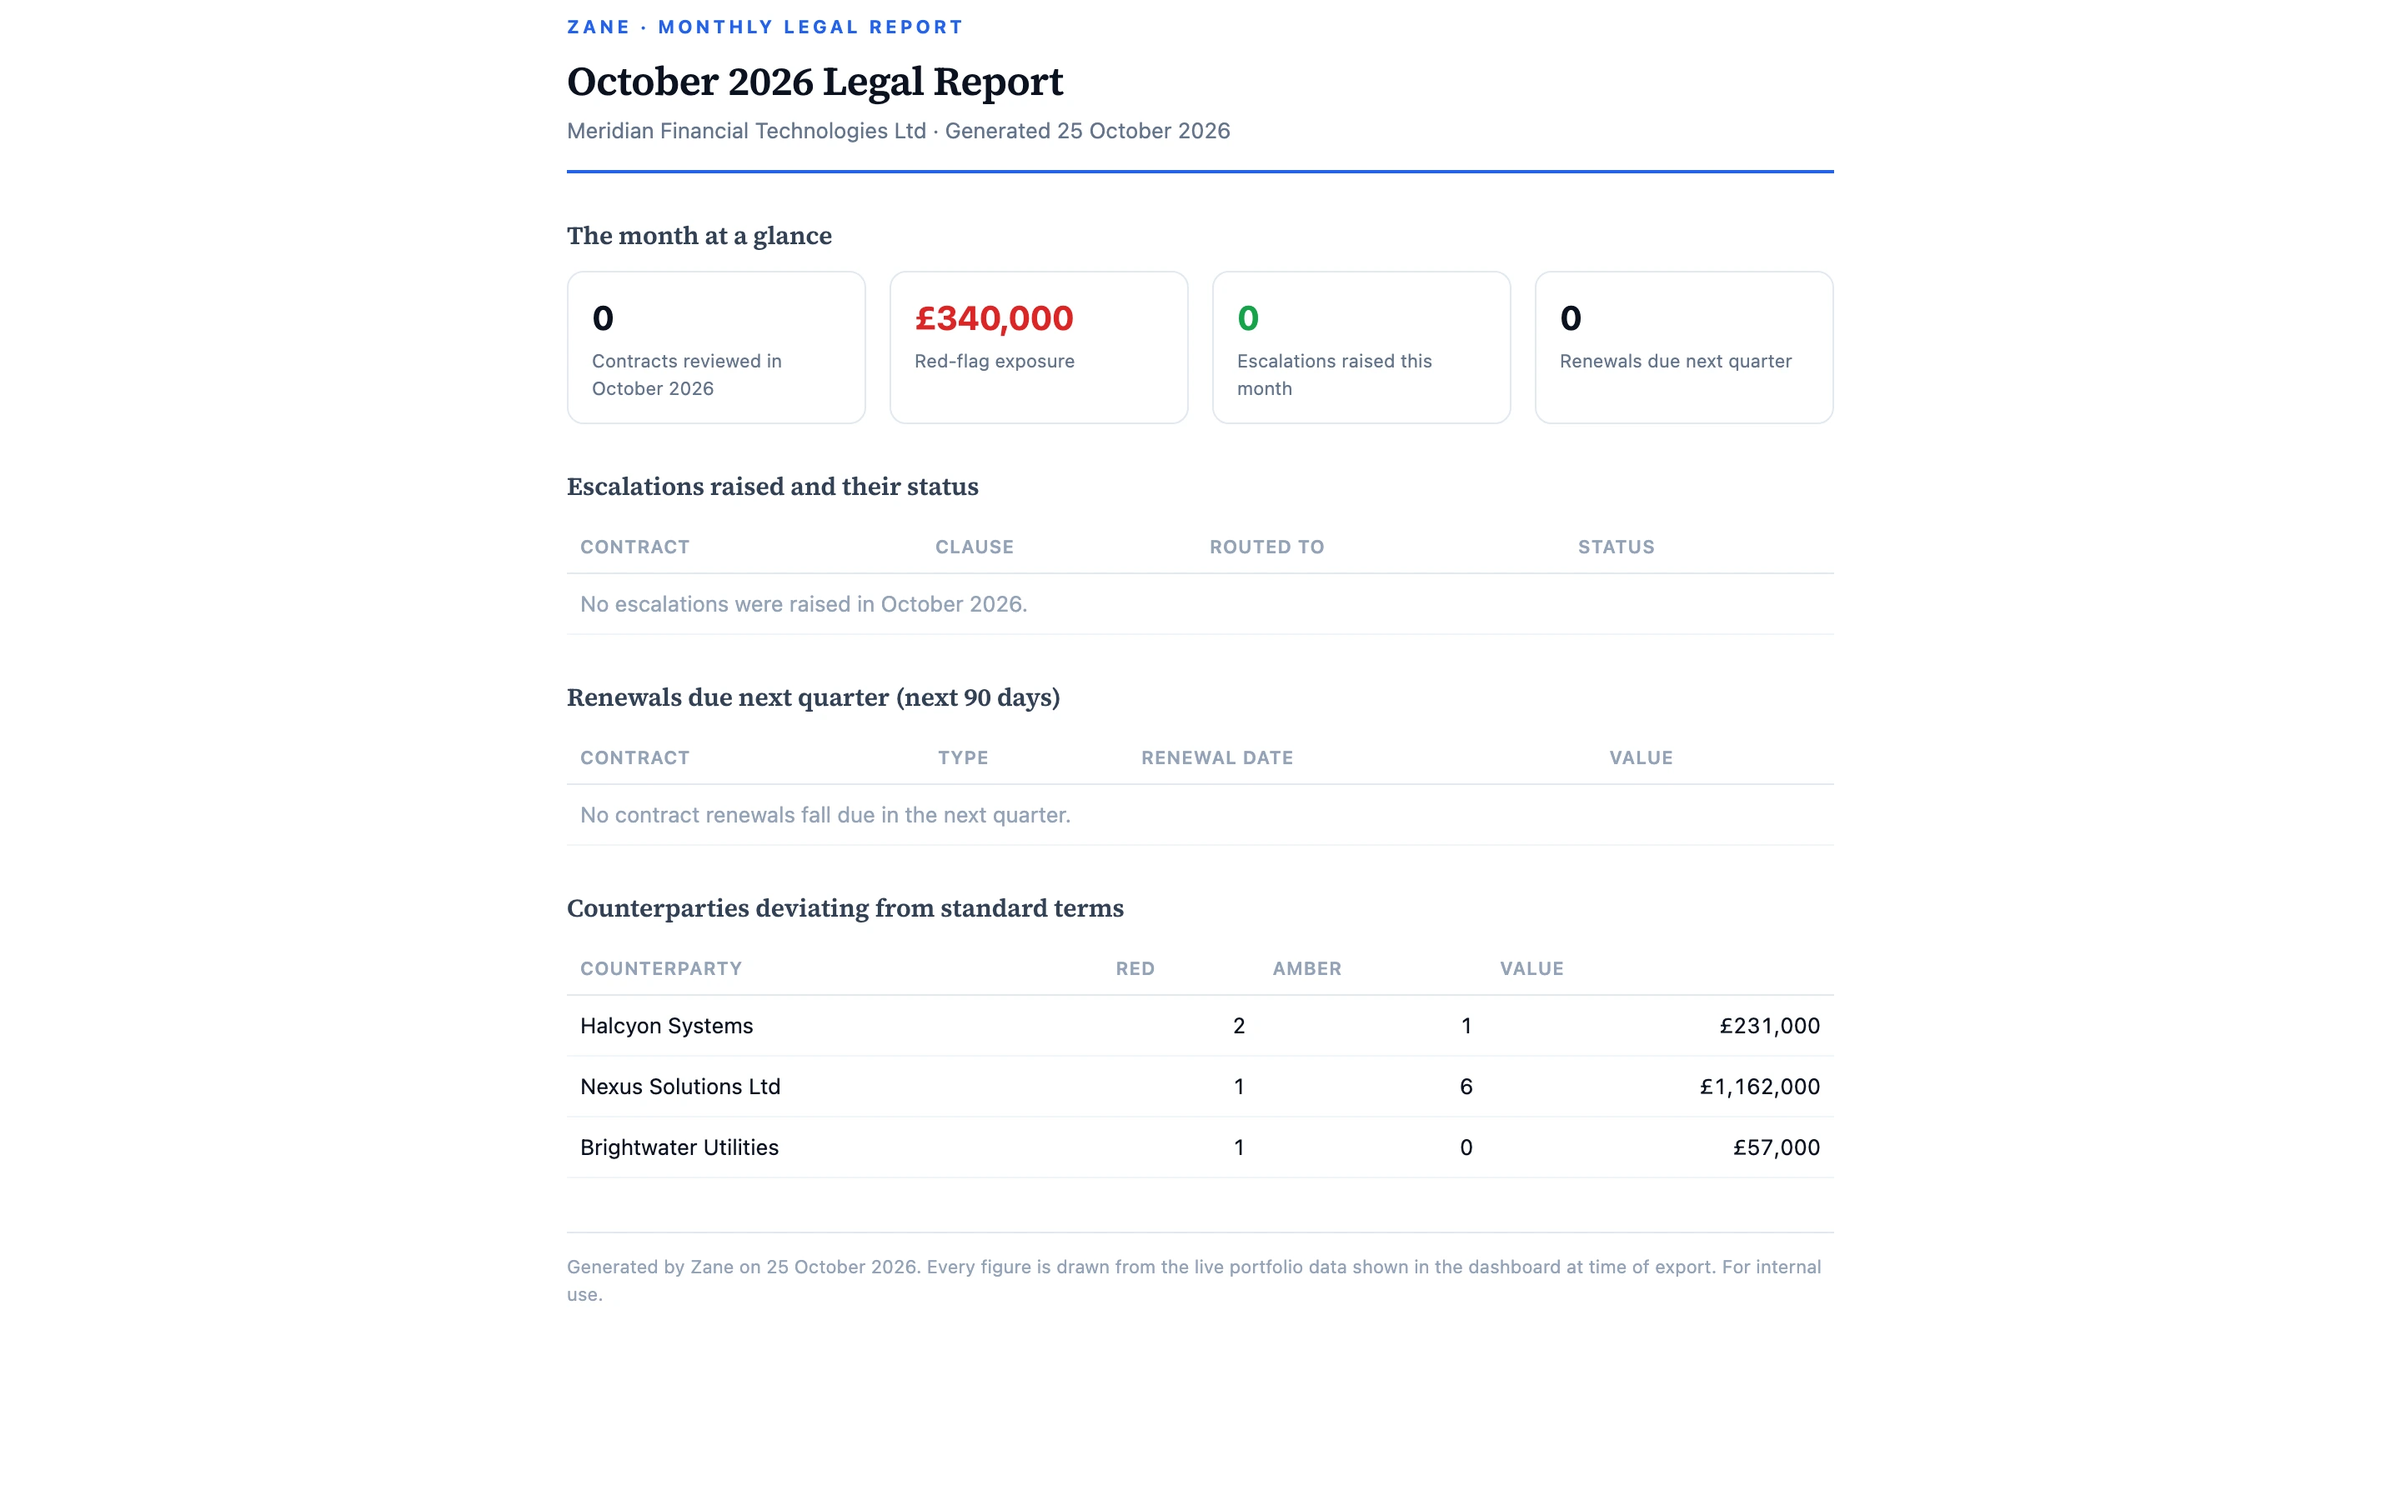
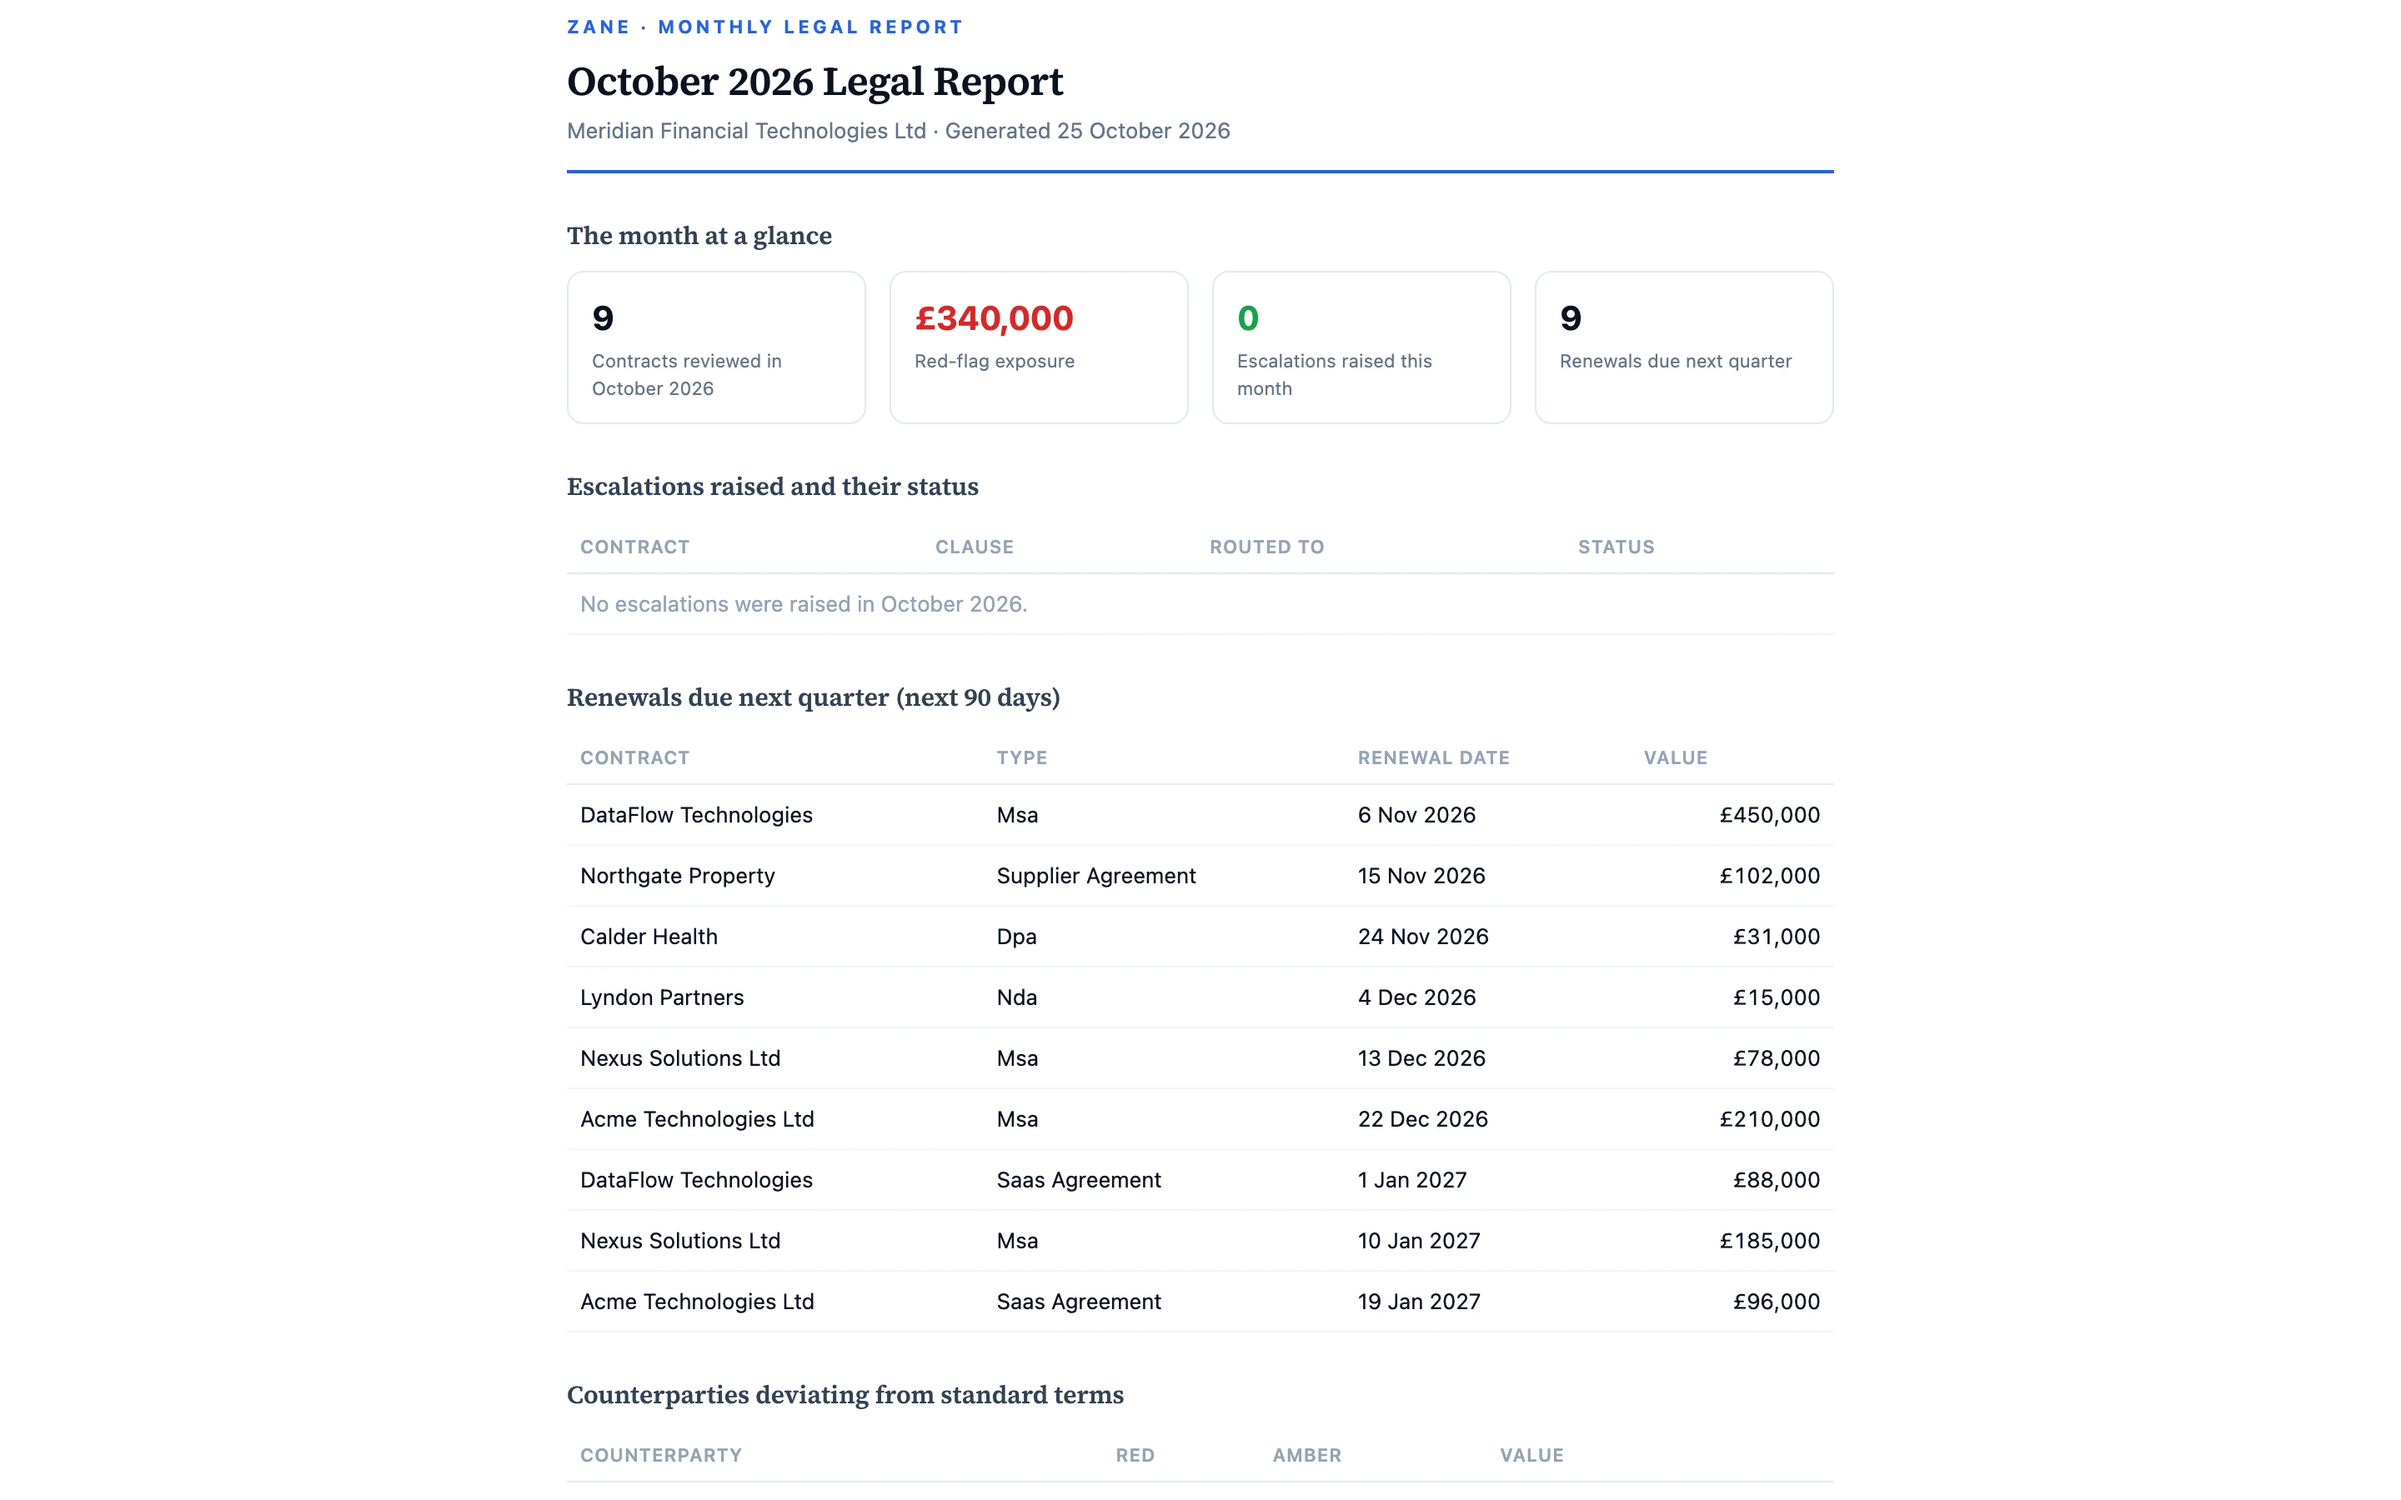
refresh demo dates so the monthly report has a month
The seed anchored every relative date to a frozen 2026-08-02, so
the demo aged out of its own reporting window: by October the
monthly report read "0 contracts reviewed this month" and both
date-driven tables were empty. The anchor now defaults to now.

The seed also never wrote renewalDate at all, so "Renewals due
next quarter" and the Timings view were empty whatever the review
dates said. Every fourth contract now renews inside the 90 day
window those screens use.

refresh-demo-dates.ts shifts data already in the database rather
than re-seeding over it: reviewedAt moves forward by one delta so
the spread between contracts is preserved, and renewalDate is
filled in by the same rule. Dry run unless --apply, with a JSON
backup of the previous values. audit_log is left alone: rewriting
audit timestamps to improve a screenshot is the operation that
makes "immutable" untrue of that collection.

The report now shows 9 contracts reviewed, 340,000 exposure and
nine named renewals. Escalations stay at zero: approval_requests
.created is declared autodate, so PocketBase accepts a backdate
and silently drops it. The script reads rows back and reports
that rather than counting it a success, which the first version
of it did.

diff --git a/simple-app/scripts/refresh-demo-dates.ts b/simple-app/scripts/refresh-demo-dates.ts
@@ -1,0 +1,206 @@
+/**
+ * Brings the seeded demo portfolio's dates forward to the present.
+ *
+ * The seed used to anchor every relative date to a frozen day, so the demo
+ * aged: by October the monthly report said "0 contracts reviewed this month"
+ * and both date-driven tables were empty. The seed now anchors to now, but
+ * data already in the database still carries the old dates, and re-seeding
+ * would destroy the demo rather than adjust it. This shifts what is there.
+ *
+ * WHAT IT CHANGES, on the demo company only:
+ *
+ *   uploaded_documents.reviewedAt   shifted forward by one delta, so the most
+ *                                   recent review lands today and the spread
+ *                                   between contracts is preserved exactly.
+ *   uploaded_documents.renewalDate  populated. The seed never wrote one, so
+ *                                   "Renewals due next quarter" was empty
+ *                                   whatever the review dates said. Same rule
+ *                                   as the seed: every fourth contract renews
+ *                                   inside 90 days.
+ *   approval_requests.created       shifted by the same delta.
+ *
+ * WHAT IT DOES NOT TOUCH:
+ *
+ *   audit_log. Rewriting audit timestamps is exactly the operation that makes
+ *   "immutable" untrue of that collection, and doing it to make a screenshot
+ *   look better is not a good enough reason. The audit timeline will keep
+ *   showing the original event dates.
+ *
+ * Dry run unless --apply. Every row is written to a timestamped JSON file
+ * before anything changes, and the run aborts if that file cannot be written.
+ *
+ *   npx tsx scripts/refresh-demo-dates.ts
+ *   npx tsx scripts/refresh-demo-dates.ts --apply
+ */
+
+import "../server/env";
+import fs from "fs";
+import path from "path";
+import { pb, initPocketBase } from "../server/pb";
+
+type Row = Record<string, unknown> & { id: string };
+
+/** Only the seeded demo company is touched. */
+const DEMO_NAME_FRAGMENT = "meridian";
+
+const APPLY = process.argv.includes("--apply");
+const OUT_DIR =
+  process.argv.filter((a) => a.startsWith("--out=")).map((a) => a.slice(6))[0] ??
+  path.join(process.cwd(), "cleanup-backup");
+
+const DAY = 86_400_000;
+const pbDate = (d: Date) => d.toISOString().replace("T", " ");
+
+/** Same shape as renewalFor() in seed-demo-portfolio.ts. Keep them in step. */
+function renewalFor(index: number, from: Date) {
+  const soon = index % 4 === 0;
+  const days = soon ? 12 + ((index * 7) % 75) : 190 + ((index * 23) % 360);
+  return {
+    renewalDate: pbDate(new Date(from.getTime() + days * DAY)),
+    autoRenewal: index % 3 !== 0,
+    noticePeriodDays: [30, 60, 90][index % 3],
+  };
+}
+
+async function all(collection: string): Promise<Row[]> {
+  try {
+    return (await pb.collection(collection).getFullList({ sort: "+id" })) as Row[];
+  } catch (err) {
+    console.warn(`  [warn] could not read ${collection}: ${(err as Error)?.message}`);
+    return [];
+  }
+}
+
+async function main() {
+  await initPocketBase();
+  console.log(`Connected to ${process.env.POCKETBASE_URL ?? "(default)"}`);
+
+  const companies = await all("companies");
+  const demo = companies.find((c) =>
+    String(c["name"] ?? "").toLowerCase().includes(DEMO_NAME_FRAGMENT),
+  );
+  if (!demo) throw new Error(`No demo company matching "${DEMO_NAME_FRAGMENT}"`);
+  console.log(`Demo company: ${String(demo["name"])} (${demo.id})\n`);
+
+  const docs = (await all("uploaded_documents")).filter((d) => d["company"] === demo.id);
+  const approvals = (await all("approval_requests")).filter(
+    (a) => a["company"] === demo.id || a["companyId"] === demo.id,
+  );
+
+  const reviewed = docs
+    .map((d) => new Date(String(d["reviewedAt"] ?? "")))
+    .filter((d) => !isNaN(+d));
+  if (reviewed.length === 0) throw new Error("No reviewedAt dates to shift");
+
+  const newest = new Date(Math.max(...reviewed.map((d) => +d)));
+  const now = new Date();
+  const deltaDays = Math.round((+now - +newest) / DAY);
+  if (deltaDays <= 0) {
+    console.log(`Newest review is ${newest.toISOString().slice(0, 10)}, already current. Nothing to shift.`);
+    return;
+  }
+
+  console.log(`Newest review : ${newest.toISOString().slice(0, 10)}`);
+  console.log(`Today         : ${now.toISOString().slice(0, 10)}`);
+  console.log(`Shift forward : ${deltaDays} days\n`);
+
+  const monthStart = new Date(now.getFullYear(), now.getMonth(), 1);
+  const quarterEnd = new Date(+now + 90 * DAY);
+
+  const docUpdates = docs.map((d, i) => {
+    const old = new Date(String(d["reviewedAt"] ?? ""));
+    const shifted = isNaN(+old) ? null : new Date(+old + deltaDays * DAY);
+    return {
+      id: d.id,
+      name: String(d["originalName"] ?? ""),
+      before: { reviewedAt: d["reviewedAt"], renewalDate: d["renewalDate"] ?? null },
+      after: {
+        ...(shifted ? { reviewedAt: pbDate(shifted) } : {}),
+        ...renewalFor(i, now),
+      },
+      landsThisMonth: shifted ? shifted >= monthStart : false,
+    };
+  });
+
+  const approvalUpdates = approvals.map((a) => {
+    const old = new Date(String(a.created ?? ""));
+    return {
+      id: a.id,
+      before: { created: a.created },
+      after: isNaN(+old) ? {} : { created: pbDate(new Date(+old + deltaDays * DAY)) },
+    };
+  });
+
+  const reviewedThisMonth = docUpdates.filter((u) => u.landsThisMonth).length;
+  const renewalsInWindow = docUpdates.filter((u) => {
+    const r = new Date(String(u.after.renewalDate));
+    return r >= now && r <= quarterEnd;
+  }).length;
+
+  console.log(`documents to update : ${docUpdates.length}`);
+  console.log(`  reviewed in ${now.toLocaleString("en-GB", { month: "long", year: "numeric" })} after the shift: ${reviewedThisMonth}`);
+  console.log(`  renewals inside the next 90 days: ${renewalsInWindow}`);
+  console.log(`approval requests to update: ${approvalUpdates.length}`);
+  console.log(`audit_log: untouched by design\n`);
+
+  if (!APPLY) {
+    console.log("Dry run. Nothing has been changed. Re-run with --apply.\n");
+    return;
+  }
+
+  fs.mkdirSync(OUT_DIR, { recursive: true });
+  const file = path.join(OUT_DIR, `demo-dates-${new Date().toISOString().replace(/[:.]/g, "-")}.json`);
+  fs.writeFileSync(
+    file,
+    JSON.stringify({ takenAt: new Date().toISOString(), deltaDays, docUpdates, approvalUpdates }, null, 2),
+  );
+  console.log(`Backed up previous values to ${file}\n`);
+
+  let ok = 0;
+  let failed = 0;
+  for (const u of docUpdates) {
+    try {
+      await pb.collection("uploaded_documents").update(u.id, u.after);
+      ok++;
+    } catch (err) {
+      failed++;
+      console.warn(`  [warn] ${u.id}: ${(err as Error)?.message}`);
+    }
+  }
+  /**
+   * approval_requests.created is an autodate field, so PocketBase accepts the
+   * write, returns 200 and silently drops it. An earlier version of this
+   * script counted those as successes. Read the rows back and say what
+   * actually changed, because a silent no-op reported as success is worse than
+   * a failure.
+   */
+  let ignored = 0;
+  for (const u of approvalUpdates) {
+    if (!("created" in u.after)) continue;
+    try {
+      await pb.collection("approval_requests").update(u.id, u.after);
+      const back = await pb.collection("approval_requests").getOne(u.id);
+      if (String(back.created).slice(0, 10) === String(u.after.created).slice(0, 10)) ok++;
+      else ignored++;
+    } catch (err) {
+      failed++;
+      console.warn(`  [warn] approval ${u.id}: ${(err as Error)?.message}`);
+    }
+  }
+  console.log(`Updated ${ok} record(s). ${failed} failure(s).`);
+  if (ignored > 0) {
+    console.log(
+      `\n${ignored} approval_request date(s) were accepted and then ignored by PocketBase.\n` +
+      `  approval_requests.created is declared autodate in scripts/setup-pocketbase.ts,\n` +
+      `  so it cannot be backdated. "Escalations raised this month" will stay at zero\n` +
+      `  until that field is changed to a plain date, as audit_log.created already is.`,
+    );
+  }
+}
+
+main()
+  .then(() => process.exit(0))
+  .catch((err) => {
+    console.error("Failed:", (err as Error)?.message ?? err);
+    process.exit(1);
+  });

diff --git a/simple-app/scripts/seed-demo-portfolio.ts b/simple-app/scripts/seed-demo-portfolio.ts
@@ -35,7 +35,31 @@ const DEMO_USER = "demo@zanelegal.ai";
 
 // Reference point for the 90 day spread. Passed in rather than read from the
 // clock so a re-run produces the same dates.
-const TODAY = new Date(process.env.SEED_TODAY ?? "2026-08-02T09:00:00.000Z");
+/**
+ * Anchor for every relative date below. Defaults to now, so a re-seed always
+ * lands in the current month: the monthly report windows on the current month
+ * and a frozen anchor made it render zeros the moment that month passed.
+ * Set SEED_TODAY to pin it for a reproducible fixture.
+ */
+const TODAY = new Date(process.env.SEED_TODAY ?? Date.now());
+
+/**
+ * Renewal dates. The seed previously wrote none at all, so "Renewals due next
+ * quarter" and the Timings view were empty whatever the review dates said.
+ * Every fourth contract renews inside the 90 day window the dashboard and the
+ * monthly report both use; the rest sit six to eighteen months out.
+ */
+const daysAheadIso = (d: number) =>
+  new Date(TODAY.getTime() + d * 86_400_000).toISOString().replace("T", " ");
+function renewalFor(index: number): { renewalDate: string; autoRenewal: boolean; noticePeriodDays: number } {
+  const soon = index % 4 === 0;
+  const days = soon ? 12 + ((index * 7) % 75) : 190 + ((index * 23) % 360);
+  return {
+    renewalDate: daysAheadIso(days),
+    autoRenewal: index % 3 !== 0,
+    noticePeriodDays: [30, 60, 90][index % 3],
+  };
+}
 const daysAgoIso = (d: number) => {
   const t = new Date(TODAY.getTime() - d * 86_400_000);
   return t.toISOString().replace("T", " ");
@@ -335,8 +359,10 @@ async function main() {
   const resultIdByDocCat = new Map<string, string>();
   let rrCount = 0, deCount = 0, auditCount = 0;
 
+  let contractIndex = 0;
   for (const c of CONTRACTS) {
     const reviewedAt = daysAgoIso(c.daysAgo);
+    const renewal = renewalFor(contractIndex++);
     const doc = await pb.collection("uploaded_documents").create({
       company: cid,
       filename: `${SEED_TAG}_${c.name.replace(/[^a-z0-9]/gi, "_").slice(0, 40)}.pdf`,
@@ -350,6 +376,9 @@ async function main() {
       currency: "GBP",
       contractValue: c.value,
       reviewedAt,
+      renewalDate: renewal.renewalDate,
+      autoRenewal: renewal.autoRenewal,
+      noticePeriodDays: renewal.noticePeriodDays,
       source: SEED_TAG,
       draft: false,
     });
